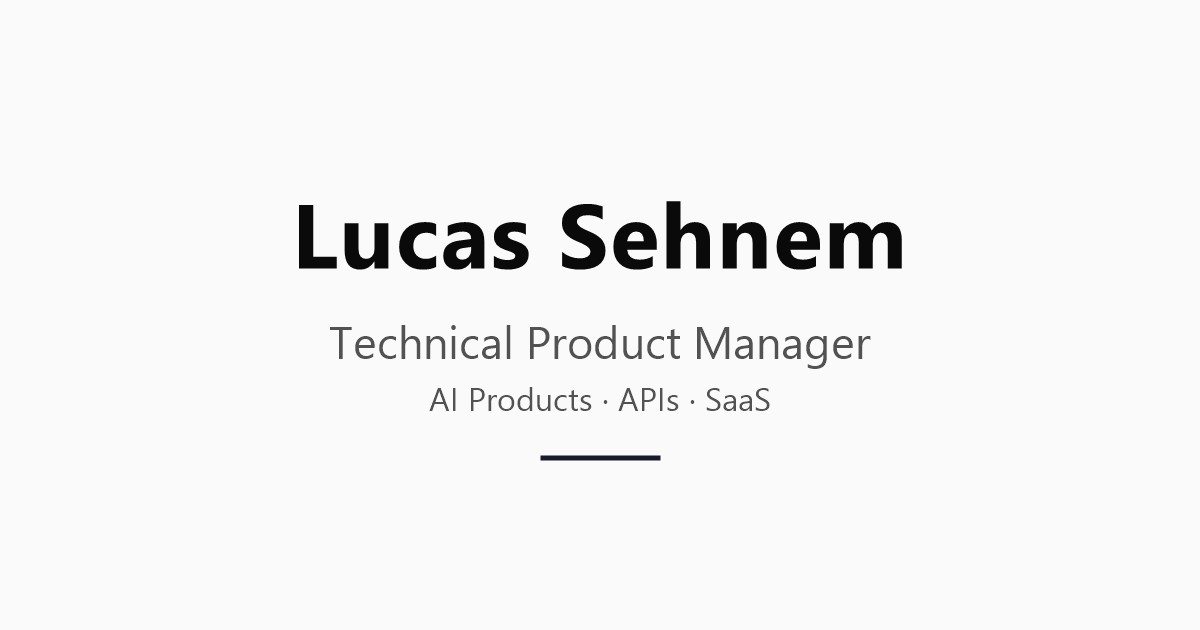
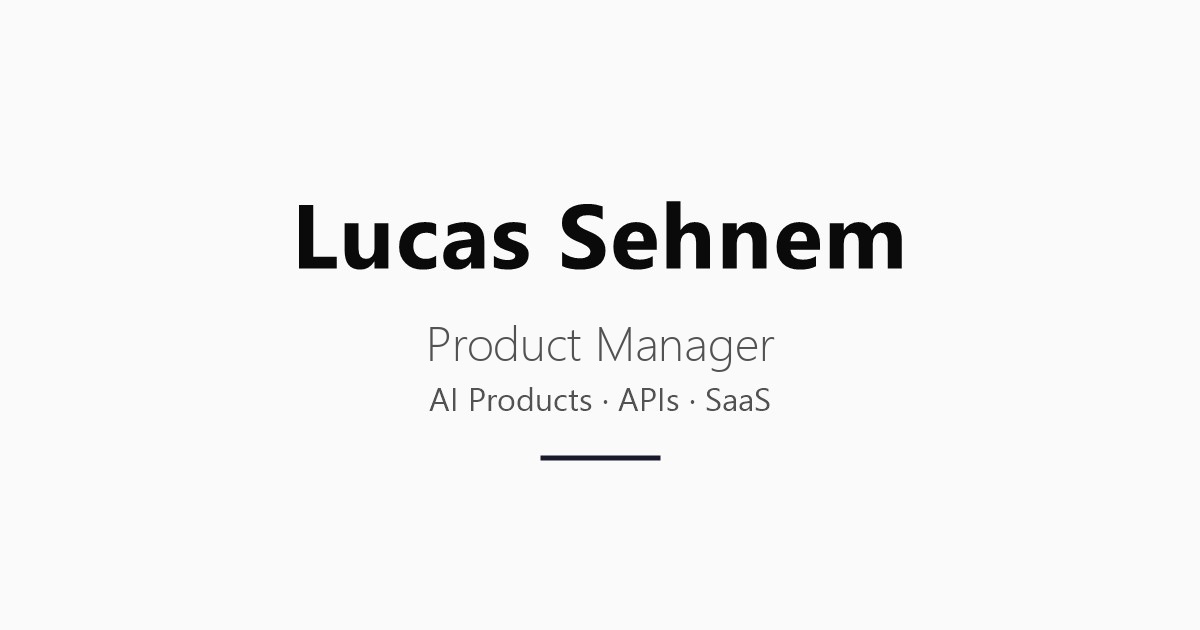
Alinha About ao CV: DSC Investimentos e resumo
Adiciona a DSC Investimentos (2017-2019) à trajetória, reescreve a
introdução da About (PT/EN) a partir do resumo do CV, alinha cargos da
TRON DAO, Bit2Me e Play9 e troca "Technical Product Manager" por
"Product Manager" nos metadados, hero e contato.

Changed region(s): [[0.2775, 0.5127, 0.74, 0.573]]

diff --git a/src/i18n/ui.ts b/src/i18n/ui.ts
@@ -31,7 +31,7 @@ export const ui = {
 
     // Hero
     hero: {
-      badge: 'Technical Product Manager / Sistemas, Produto, IA',
+      badge: 'Product Manager / Sistemas, Produto, IA',
       headlineBefore: 'Do problema ao produto.',
       headlineAccent: 'Da estratégia',
       headlineAfter: 'à execução.',
@@ -168,7 +168,7 @@ export const ui = {
     projectsPage: {
       title: 'Projetos',
       subtitle: 'Produtos de IA e sistemas técnicos, do discovery à execução. Comece pelos dois destaques.',
-      description: 'Portfólio de produtos construídos e entregues por Lucas Sehnem, Technical Product Manager.',
+      description: 'Portfólio de produtos construídos e entregues por Lucas Sehnem, Product Manager.',
       empty: 'Nenhum projeto publicado ainda. Volte em breve!',
       // Sections shown on /projects, in display order.
       // Membership comes from each project's frontmatter `section` field.
@@ -234,22 +234,22 @@ export const ui = {
 
       // SEO meta exclusive to About — not the site-wide siteDescription
       meta: {
-        title: 'Sobre | Lucas Sehnem · Technical Product Manager',
-        description: 'Trajetória de Lucas Sehnem entre usuários, produto e tecnologia, com experiência em AI Products, Technical Product, discovery, estratégia e execução hands-on.',
+        title: 'Sobre | Lucas Sehnem · Product Manager',
+        description: 'Trajetória de Lucas Sehnem entre usuários, produto e tecnologia, com experiência em AI Products, gestão de produto, discovery, estratégia e execução hands-on.',
       },
 
       // bio.* — three-paragraph home excerpt; the last sentence carries the localized link to the About page (rendered via set:html in HomePage.astro)
       bio: {
         p1: 'Trabalho de forma hands-on entre produto e tecnologia, atuando diretamente com desenvolvimento, IA, APIs, arquitetura, automações e prototipação para transformar decisões de produto em soluções reais.',
         p2: 'Meu trabalho não termina na definição do que construir. Busco entender as implicações técnicas, os trade-offs e o caminho mais eficiente para transformar uma decisão de produto em valor real para o usuário.',
-        p3: 'Hoje sou Technical Product Manager e cofundador do ProfResolve. A história completa está na <a href="/about/">página Sobre</a>.',
+        p3: 'Hoje sou Product Manager e cofundador do ProfResolve. A história completa está na <a href="/about/">página Sobre</a>.',
       },
 
       // intro.* exclusive to the About page — separate from bio.* to avoid Home regression
       intro: {
         productPathTitle: 'Como cheguei a produto',
-        p1: 'Minha trajetória em tecnologia começou perto dos usuários. No ecossistema TRON DAO / DLive, atuei em suporte, onboarding, localização e feedback; depois, colaborei em pesquisa, testes e evolução de produtos com equipes globais. Na Bit2Me e em projetos da Play9/NineBlocks, trabalhei com comunidade, pesquisa tecnológica e desenvolvimento de produto.',
-        p2: 'Essa experiência me aproximou de produto. Na Cripto Host, atuei como Product Owner, cuidando de requisitos técnicos, pesquisa de infraestrutura e priorização junto à engenharia.',
+        p1: 'Trabalho com produtos digitais desde 2017, de trading algorítmico a SaaS de IA e Web3. Comecei na DSC Investimentos, como Gerente de Produto Digital, cuidando do ciclo de vida de sistemas de trading algorítmico para B3/BMF e Forex, da definição de requisitos ao lançamento. Meu papel era ligar os desenvolvedores aos especialistas do mercado financeiro e transformar estratégias de negociação em software.',
+        p2: 'Depois, passei a trabalhar perto dos usuários e de equipes globais. No ecossistema TRON DAO / DLive, atuei em suporte, onboarding, localização e feedback e, mais tarde, em pesquisa, testes e evolução de produtos Web3. Na Bit2Me e na Play9/NineBlocks, trabalhei com comunidade, pesquisa tecnológica e desenvolvimento de produto. Na Cripto Host, fui Product Owner, definindo backlog e requisitos técnicos junto à engenharia.',
         todayTitle: 'Hoje',
         p3: 'Hoje, como cofundador do ProfResolve, atuo do discovery à implementação técnica, cobrindo estratégia, roadmap, UX e monetização. Participei diretamente da construção da plataforma, incluindo frontend, backend, APIs, pagamentos, banco de dados, infraestrutura de IA e mecanismos de confiabilidade.',
         p4: 'O ProfResolve tem mais de 1.200 usuários cadastrados organicamente e monetização ativa. Um survey aberto a mais de 100 professores e o feedback contínuo ajudam a orientar as prioridades do produto.',
@@ -276,9 +276,10 @@ export const ui = {
         items: [
           { period: '2026 – Presente', company: 'ProfResolve', role: profresolveRole, description: 'Cofundador e líder de produto de um SaaS de IA para professores.', highlight: 'Mais de 1.200 usuários cadastrados organicamente e monetização ativa.' }, // TODO(conteúdo): destacar uma evidência verificável.
           { period: '2025 – 2026', company: 'Cripto Host', role: 'Product Owner & Project Manager | Web3 Research', description: 'Backlog, requisitos e pesquisa de infraestrutura junto à engenharia.', highlight: 'Mais de 100 oportunidades de nodes pesquisadas; mais de 20 disponibilizadas comercialmente pela Cripto Host.' }, // TODO(conteúdo): destacar uma evidência verificável.
-          { period: '2019 – 2025 (5+ anos)', company: 'TRON DAO Ecosystem', role: 'Product Operations, Research & Growth | Web3', description: 'Via DLive.tv (2019 – 2021), Freelancer (2021 – 2023) e contratado direto TRON DAO (2023 – 2025).', highlight: undefined },
-          { period: '2022 – 2023', company: 'Bit2Me', role: 'Community Manager and Social Media Manager', description: 'Comunidade, conteúdo localizado e feedback do mercado brasileiro.', highlight: 'Comunidade Bitmeiros: mais de 10 mil membros orgânicos em menos de cinco meses.' }, // TODO(conteúdo): destacar uma evidência verificável.
-          { period: '2021 – 2022', company: 'Play9 / NineBlocks', role: 'Product Research, Discovery & Development | Web3 · Community Manager', description: 'Pesquisa tecnológica, whitepapers e colaboração no desenvolvimento de projetos Web3.', highlight: undefined }, // TODO(conteúdo): destacar uma evidência verificável.
+          { period: '2019 – 2025 (5+ anos)', company: 'TRON DAO Ecosystem', role: 'Growth, Customer Success & Product Operations | Web3', description: 'Via DLive.tv (2019 – 2021), Freelancer (2021 – 2023) e contratado direto TRON DAO (2023 – 2025).', highlight: undefined },
+          { period: '2022 – 2023', company: 'Bit2Me', role: 'Community Manager & Social Media Manager', description: 'Comunidade, conteúdo localizado e feedback do mercado brasileiro.', highlight: 'Comunidade Bitmeiros: mais de 10 mil membros orgânicos em menos de cinco meses.' }, // TODO(conteúdo): destacar uma evidência verificável.
+          { period: '2021 – 2022', company: 'Play9 / NineBlocks', role: 'Community Manager | Product Research & Discovery', description: 'Pesquisa tecnológica, whitepapers e colaboração no desenvolvimento de projetos Web3.', highlight: undefined }, // TODO(conteúdo): destacar uma evidência verificável.
+          { period: '2017 – 2019', company: 'DSC Investimentos', role: 'Gerente de Produto Digital | Trading Algorítmico & Mercado Financeiro', description: 'Ciclo de vida de produtos digitais para o mercado financeiro, da definição de requisitos ao lançamento. Coordenei sistemas de trading algorítmico para B3/BMF e Forex, com backtesting, validação de estratégias e KPIs de adoção e uso.', highlight: 'Portfólio com robôs personalizados, licenciamento de software e modelos por assinatura.' },
           { period: '2010 – Presente', company: 'YouTube / Independente', role: 'Content Creator across Multiple Channels', description: 'Estratégia de conteúdo, métricas e crescimento orgânico em múltiplos canais.', highlight: 'Mais de 60 milhões de visualizações e 250 mil seguidores.' },
         ],
       },
@@ -335,14 +336,14 @@ export const ui = {
       // contact.* kept for TypeScript compatibility — new About CTA uses the global contact.* keys
       contact: {
         title: 'Vamos conversar',
-        subtitle: 'Estou aberto a conversar sobre oportunidades em Technical Product, AI Products e equipes construindo produtos tecnicamente complexos.',
+        subtitle: 'Estou aberto a conversar sobre oportunidades em Product Management, AI Products e equipes construindo produtos tecnicamente complexos.',
       },
     },
 
     // Contact section
     contact: {
       title: 'Vamos conversar',
-      subtitle: 'Estou aberto a conversar sobre oportunidades em Technical Product, AI Products e equipes construindo produtos tecnicamente complexos.',
+      subtitle: 'Estou aberto a conversar sobre oportunidades em Product Management, AI Products e equipes construindo produtos tecnicamente complexos.',
       ctaLinkedin: 'LinkedIn',
       ctaEmail: 'Enviar e-mail',
       ctaCV: 'Baixar CV (PDF)',
@@ -412,8 +413,8 @@ export const ui = {
 
     // SEO / Meta
     meta: {
-      siteTitle: 'Lucas Sehnem — Technical Product Manager | Produtos de IA',
-      siteDescription: 'Technical Product Manager na interseção de IA, Produto e Engenharia. Construindo produtos com IA, APIs e SaaS.',
+      siteTitle: 'Lucas Sehnem — Product Manager | Produtos de IA',
+      siteDescription: 'Product Manager na interseção de IA, Produto e Engenharia. Construindo produtos com IA, APIs e SaaS.',
     },
   },
 
@@ -438,7 +439,7 @@ export const ui = {
 
     // Hero
     hero: {
-      badge: 'Technical Product Manager / Systems, Product, AI',
+      badge: 'Product Manager / Systems, Product, AI',
       headlineBefore: 'From problem to product.',
       headlineAccent: 'From strategy',
       headlineAfter: 'to execution.',
@@ -575,7 +576,7 @@ export const ui = {
     projectsPage: {
       title: 'Projects',
       subtitle: 'AI products and technical systems, from discovery to execution. Start with the two featured projects.',
-      description: 'Portfolio of products built and shipped by Lucas Sehnem, Technical Product Manager.',
+      description: 'Portfolio of products built and shipped by Lucas Sehnem, Product Manager.',
       empty: 'No projects published yet. Check back soon!',
       // Sections shown on /projects, in display order.
       // Membership comes from each project's frontmatter `section` field.
@@ -641,22 +642,22 @@ export const ui = {
 
       // SEO meta exclusive to About — not the site-wide siteDescription
       meta: {
-        title: 'About | Lucas Sehnem · Technical Product Manager',
-        description: "Lucas Sehnem's path across users, product and technology — with experience in AI Products, Technical Product, discovery, strategy and hands-on execution.",
+        title: 'About | Lucas Sehnem · Product Manager',
+        description: "Lucas Sehnem's path across users, product and technology — with experience in AI Products, product management, discovery, strategy and hands-on execution.",
       },
 
       // bio.* — three-paragraph home excerpt; the last sentence carries the localized link to the About page (rendered via set:html in HomePage.astro)
       bio: {
         p1: 'I work hands-on across product and technology, directly involved with development, AI, APIs, architecture, automation and prototyping to turn product decisions into real solutions.',
         p2: 'My work does not end with defining what to build. I seek to understand the technical implications, trade-offs and the most efficient path to turn a product decision into real value for the user.',
-        p3: 'Today I am a Technical Product Manager and co-founder of ProfResolve. The full story is on the <a href="/en/about/">About page</a>.',
+        p3: 'Today I am a Product Manager and co-founder of ProfResolve. The full story is on the <a href="/en/about/">About page</a>.',
       },
 
       // intro.* exclusive to the About page — separate from bio.* to avoid Home regression
       intro: {
         productPathTitle: 'How I moved into product',
-        p1: 'I started out in technology close to users. In the TRON DAO / DLive ecosystem, I worked in support, onboarding, localization and feedback; later, I collaborated with global teams on research, testing and product improvements. At Bit2Me and on Play9/NineBlocks projects, I worked across community, technology research and product development.',
-        p2: 'That experience moved me closer to product. At Cripto Host, I worked as a Product Owner, handling technical requirements, infrastructure research and prioritization alongside engineering.',
+        p1: 'I have worked on digital products since 2017, from algorithmic trading to AI SaaS and Web3. I started at DSC Investimentos as a Digital Product Manager, owning the lifecycle of algorithmic trading systems for B3/BMF and Forex, from requirements to launch. My role was to connect developers with financial-market specialists and turn trading strategies into software.',
+        p2: 'After that, I moved closer to users and global teams. In the TRON DAO / DLive ecosystem, I worked in support, onboarding, localization and feedback and, later, in research, testing and improvement of Web3 products. At Bit2Me and Play9/NineBlocks, I worked across community, technology research and product development. At Cripto Host, I was a Product Owner, defining the backlog and technical requirements alongside engineering.',
         todayTitle: 'Today',
         p3: 'Today, as co-founder of ProfResolve, I work from discovery through technical implementation, covering strategy, roadmap, UX and monetization. I took a direct part in building the platform, including frontend, backend, APIs, payments, database, AI infrastructure and reliability mechanisms.',
         p4: 'ProfResolve has over 1,200 organically registered users and active monetization. A survey open to more than 100 teachers and ongoing user feedback help guide product priorities.',
@@ -683,9 +684,10 @@ export const ui = {
         items: [
           { period: '2026 – Present', company: 'ProfResolve', role: profresolveRole, description: 'Co-founder and product lead for an AI SaaS for teachers.', highlight: 'Over 1,200 organically registered users and active monetization.' }, // TODO(conteúdo): add a verifiable evidence highlight.
           { period: '2025 – 2026', company: 'Cripto Host', role: 'Product Owner & Project Manager | Web3 Research', description: 'Backlog, requirements and infrastructure research alongside engineering.', highlight: 'Over 100 node opportunities researched; more than 20 made commercially available by Cripto Host.' }, // TODO(conteúdo): add a verifiable evidence highlight.
-          { period: '2019 – 2025 (5+ years)', company: 'TRON DAO Ecosystem', role: 'Product Operations, Research & Growth | Web3', description: 'Via DLive.tv (2019 – 2021), Freelancer (2021 – 2023) and direct hire TRON DAO (2023 – 2025).', highlight: undefined },
-          { period: '2022 – 2023', company: 'Bit2Me', role: 'Community Manager and Social Media Manager', description: 'Community, localized content and feedback from the Brazilian market.', highlight: 'Bitmeiros community: over 10,000 organic members in under five months.' }, // TODO(conteúdo): add a verifiable evidence highlight.
-          { period: '2021 – 2022', company: 'Play9 / NineBlocks', role: 'Product Research, Discovery & Development | Web3 · Community Manager', description: 'Technology research, whitepapers and collaboration on Web3 product development.', highlight: undefined }, // TODO(conteúdo): add a verifiable evidence highlight.
+          { period: '2019 – 2025 (5+ years)', company: 'TRON DAO Ecosystem', role: 'Growth, Customer Success & Product Operations | Web3', description: 'Via DLive.tv (2019 – 2021), Freelancer (2021 – 2023) and direct hire TRON DAO (2023 – 2025).', highlight: undefined },
+          { period: '2022 – 2023', company: 'Bit2Me', role: 'Community Manager & Social Media Manager', description: 'Community, localized content and feedback from the Brazilian market.', highlight: 'Bitmeiros community: over 10,000 organic members in under five months.' }, // TODO(conteúdo): add a verifiable evidence highlight.
+          { period: '2021 – 2022', company: 'Play9 / NineBlocks', role: 'Community Manager | Product Research & Discovery', description: 'Technology research, whitepapers and collaboration on Web3 product development.', highlight: undefined }, // TODO(conteúdo): add a verifiable evidence highlight.
+          { period: '2017 – 2019', company: 'DSC Investimentos', role: 'Digital Product Manager | Algorithmic Trading & Financial Markets', description: 'Lifecycle of digital products for the financial market, from requirements to launch. Coordinated algorithmic trading systems for B3/BMF and Forex, with backtesting, strategy validation and adoption and usage KPIs.', highlight: 'Portfolio spanning custom trading bots, software licensing and subscription-based commercial models.' },
           { period: '2010 – Present', company: 'YouTube / Independent', role: 'Content Creator across Multiple Channels', description: 'Content strategy, metrics and organic growth across multiple channels.', highlight: 'Over 60 million views and 250,000 followers.' },
         ],
       },
@@ -742,14 +744,14 @@ export const ui = {
       // contact.* kept for TypeScript compatibility — new About CTA uses the global contact.* keys
       contact: {
         title: "Let's talk",
-        subtitle: "I'm open to conversations about opportunities in Technical Product, AI Products and teams building technically complex products.",
+        subtitle: "I'm open to conversations about opportunities in Product Management, AI Products and teams building technically complex products.",
       },
     },
 
     // Contact section
     contact: {
       title: "Let's talk",
-      subtitle: "I'm open to conversations about opportunities in Technical Product, AI Products and teams building technically complex products.",
+      subtitle: "I'm open to conversations about opportunities in Product Management, AI Products and teams building technically complex products.",
       ctaLinkedin: 'LinkedIn',
       ctaEmail: 'Send email',
       ctaCV: 'Download CV (PDF)',
@@ -819,8 +821,8 @@ export const ui = {
 
     // SEO / Meta
     meta: {
-      siteTitle: 'Lucas Sehnem — Technical Product Manager',
-      siteDescription: 'Technical Product Manager at the intersection of AI, Product and Engineering. Building AI-powered products, APIs and SaaS.',
+      siteTitle: 'Lucas Sehnem — Product Manager',
+      siteDescription: 'Product Manager at the intersection of AI, Product and Engineering. Building AI-powered products, APIs and SaaS.',
     },
   },
 } as const;

diff --git a/src/data/profile.ts b/src/data/profile.ts
@@ -5,12 +5,12 @@
 
 export const profile = {
   name: 'Lucas Sehnem',
-  headline: 'Technical Product Manager',
+  headline: 'Product Manager',
   tagline: 'Construo produtos na interseção entre IA, Produto e Engenharia.',
-  subheadline: 'Technical Product Manager focado em transformar problemas complexos em produtos simples, escaláveis e tecnicamente viáveis.',
+  subheadline: 'Product Manager focado em transformar problemas complexos em produtos simples, escaláveis e tecnicamente viáveis.',
   description: `Trabalho de forma hands-on entre produto e tecnologia, atuando diretamente com desenvolvimento, IA, APIs, arquitetura, automações e prototipação para transformar decisões de produto em soluções reais.
 
-Foco em Technical Product Management, AI Products, APIs, SaaS, estratégia de produto, crescimento e desenvolvimento hands-on.`,
+Foco em Product Management, AI Products, APIs, SaaS, estratégia de produto, crescimento e desenvolvimento hands-on.`,
   email: 'lucas.sehnemb@gmail.com',
   linkedin: 'https://www.linkedin.com/in/sehenth/',
   github: 'https://github.com/lucassehnem',
@@ -65,7 +65,7 @@ export const footerLinks = [
 ];
 
 export const siteConfig = {
-  title: 'Lucas Sehnem — Technical Product Manager',
-  description: 'Technical Product Manager at the intersection of AI, Product & Engineering. Building AI-powered products, APIs, and SaaS.',
+  title: 'Lucas Sehnem — Product Manager',
+  description: 'Product Manager at the intersection of AI, Product & Engineering. Building AI-powered products, APIs, and SaaS.',
   ogImage: '/og-image.jpg',
 };

diff --git a/docs/setup.md b/docs/setup.md
@@ -95,3 +95,12 @@ Não foram instalados serviços, MCPs, CLIs globais, dependências, hooks, SDKs 
 - Pendente de confirmação: o CV descreve Decentralized Hosting como em desenvolvimento, enquanto o case afirma que a implementação da plataforma não começou. O case foi preservado.
 - Graphify: grafo estrutural criado e consultado; documentos, PDFs e imagens não passaram por extração semântica. `graphify update .` atualiza o código. O arquivo `.npmrc` foi ignorado como potencialmente sensível.
 - Validação: `npm run build` passou com 0 erros e 0 avisos, gerando 30 páginas; About, Home, projetos e case ProfResolve foram abertos nos dois idiomas em preview local.
+
+## Atualização da About com o CV — 3 de novembro de 2026
+
+- Fonte: `Lucas Sehnem - CV PM (BR).pdf`, idêntico (mesmo SHA-256) ao `public/lucas-cvpt.pdf` já versionado; nenhum PDF precisou ser substituído.
+- Título do site, metadados, hero e textos de contato passam de “Technical Product Manager” para “Product Manager” em PT e EN. O cargo do ProfResolve na linha do tempo foi preservado como “Co-founder & COO | Technical Product Manager” por decisão do dono.
+- About: a linha do tempo ganhou a DSC Investimentos (2017–2019); a introdução agora começa em 2017 e os cargos da TRON DAO, Bit2Me e Play9 foram alinhados ao CV.
+- `public/og-image.jpg`: apenas o subtítulo foi atualizado para “Product Manager”, mantendo título, tagline e composição originais.
+- Validação: `npm run build` aprovou `astro check`, `check:content` e gerou 30 páginas; `/about/`, `/en/about/` e a Home foram conferidos no `dist/`.
+- Resumo da About reescrito a partir do resumo do CV (produto desde 2017, DSC como ponto de partida) e item da DSC na linha do tempo ampliado com backtesting, validação de estratégias e KPIs.

diff --git a/PRODUCT.md b/PRODUCT.md
@@ -8,7 +8,7 @@ web
 
 ## Users
 
-Primary visitors are recruiters and hiring managers evaluating Lucas Sehnem for Technical Product Manager and AI Products roles. They need to quickly establish his product judgment, technical range, verified evidence, and the depth of the work behind selected projects.
+Primary visitors are recruiters and hiring managers evaluating Lucas Sehnem for Product Manager and AI Products roles. They need to quickly establish his product judgment, technical range, verified evidence, and the depth of the work behind selected projects.
 
 ## Product Purpose
 
@@ -16,7 +16,7 @@ A bilingual, static professional portfolio that presents Lucas Sehnem's work acr
 
 ## Positioning
 
-The portfolio shows a Technical Product Manager who works from discovery and prioritization through hands-on implementation, using cases and only verified product evidence rather than generic capability claims.
+The portfolio shows a Product Manager who works from discovery and prioritization through hands-on implementation, using cases and only verified product evidence rather than generic capability claims.
 
 ## Operating Context
 

diff --git a/README.md b/README.md
@@ -1,4 +1,4 @@
-# Lucas Sehnem — Technical Product Manager Portfolio
+# Lucas Sehnem — Product Manager Portfolio
 
 A static portfolio site built with **Astro**, **TypeScript**, **Tailwind CSS**, and **Chart.js**. Deployed on **Cloudflare Pages**.
 
@@ -250,9 +250,9 @@ All reusable content lives in **`src/data/profile.ts`**:
 ```ts
 export const profile = {
   name: 'Lucas Sehnem',
-  headline: 'Technical Product Manager',
+  headline: 'Product Manager',
   tagline: 'I build products at the intersection of AI, Product & Engineering.',
-  subheadline: 'Technical Product Manager focused on turning complex problems into simple, scalable products.',
+  subheadline: 'Product Manager focused on turning complex problems into simple, scalable products.',
   description: `Longer bio...`,
   email: 'lucas.sehnemb@gmail.com',
   linkedin: 'https://www.linkedin.com/in/sehenth/',
